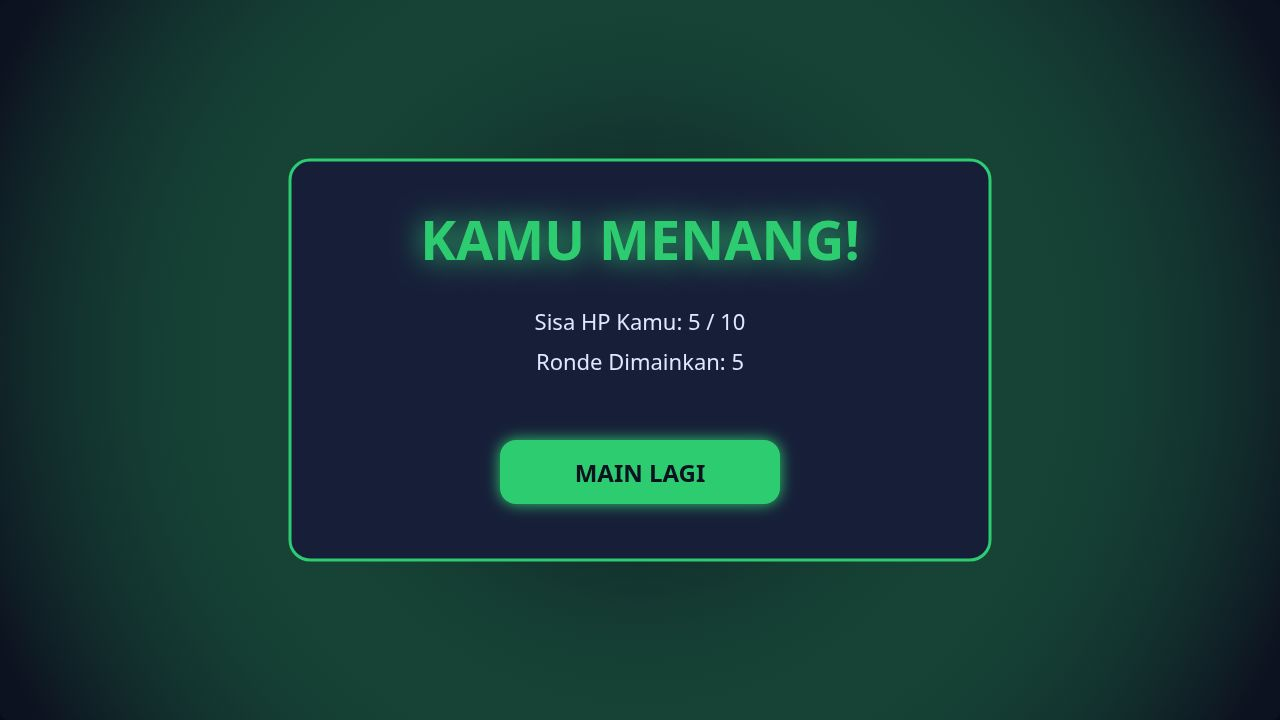
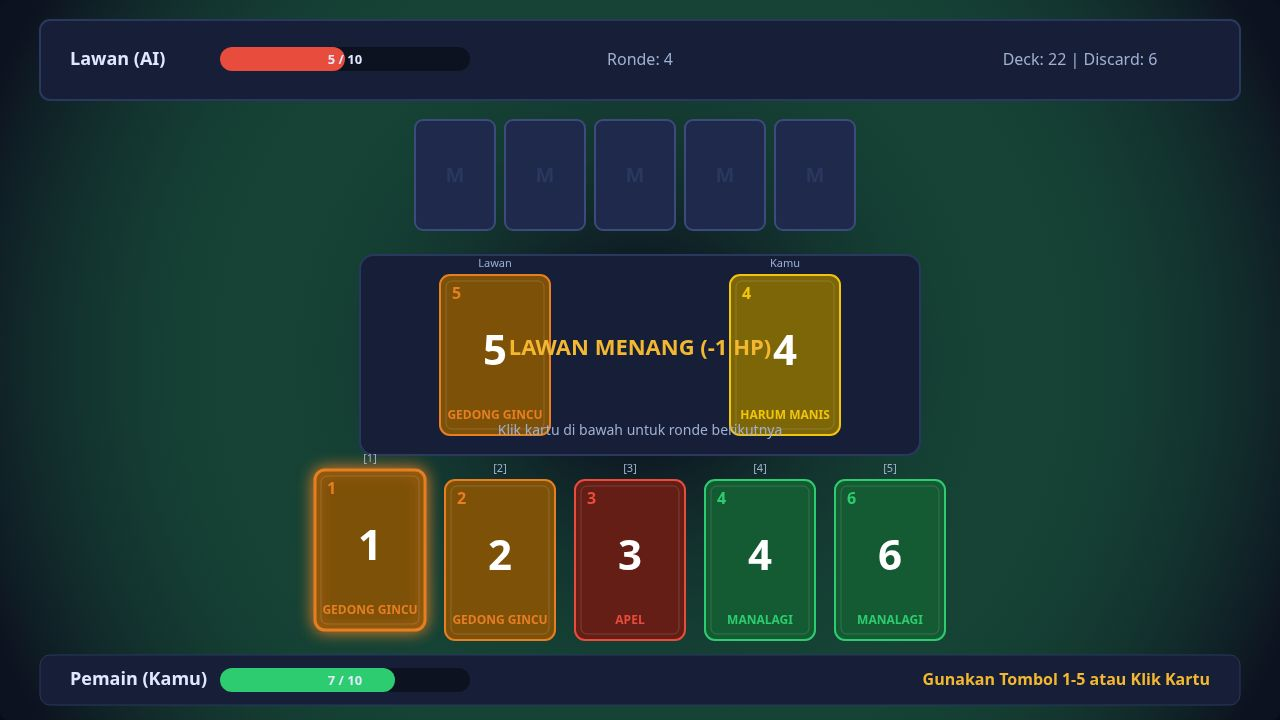
Fix table screenshot to show mid-game table

diff --git a/game/src/shots.js b/game/src/shots.js
@@ -1,5 +1,5 @@
 import { selectAiCardIndex, selectPlayerAutopilotCardIndex } from './ai.js';
-import { resolveRound, executeAiAndFinishRound } from './state.js';
+import { resolveRound, executeAiAndFinishRound, initGame } from './state.js';
 
 export function runShotMode(state, shotName) {
   if (!shotName) return false;
@@ -7,16 +7,41 @@ export function runShotMode(state, shotName) {
   if (shotName === 'title') {
     state.phase = 'title';
   } else if (shotName === 'table') {
-    state.phase = 'table';
-    // Play ~6 rounds so HP has changed and both hands are visible
-    for (let i = 0; i < 6; i++) {
-      if (state.playerHp <= 0 || state.aiHp <= 0) break;
-      const pIdx = selectPlayerAutopilotCardIndex(state.playerHand, 'best');
-      const pCard = resolveRound(state, pIdx);
-      if (!pCard) break;
-      const aiIdx = selectAiCardIndex(state.aiHand, pCard);
-      executeAiAndFinishRound(state, pCard, aiIdx);
+    let currentSeed = Number(state.seed) || 1;
+    let currentState = state;
+    let valid = false;
+    let safety = 20;
+
+    while (!valid && safety > 0) {
+      safety--;
+      currentState = initGame(currentSeed);
+      currentState.phase = 'table';
+      let ended = false;
+
+      for (let i = 0; i < 3; i++) {
+        if (currentState.playerHp <= 0 || currentState.aiHp <= 0) {
+          ended = true;
+          break;
+        }
+        const pIdx = selectPlayerAutopilotCardIndex(currentState.playerHand, 'best');
+        const pCard = resolveRound(currentState, pIdx);
+        if (!pCard) {
+          ended = true;
+          break;
+        }
+        const aiIdx = selectAiCardIndex(currentState.aiHand, pCard);
+        executeAiAndFinishRound(currentState, pCard, aiIdx);
+      }
+
+      if (!ended && currentState.playerHp > 0 && currentState.aiHp > 0) {
+        valid = true;
+      } else {
+        currentSeed++;
+      }
     }
+
+    Object.assign(state, currentState);
+    state.phase = 'table';
   } else if (shotName === 'win') {
     // Play until player wins
     let safety = 30;
